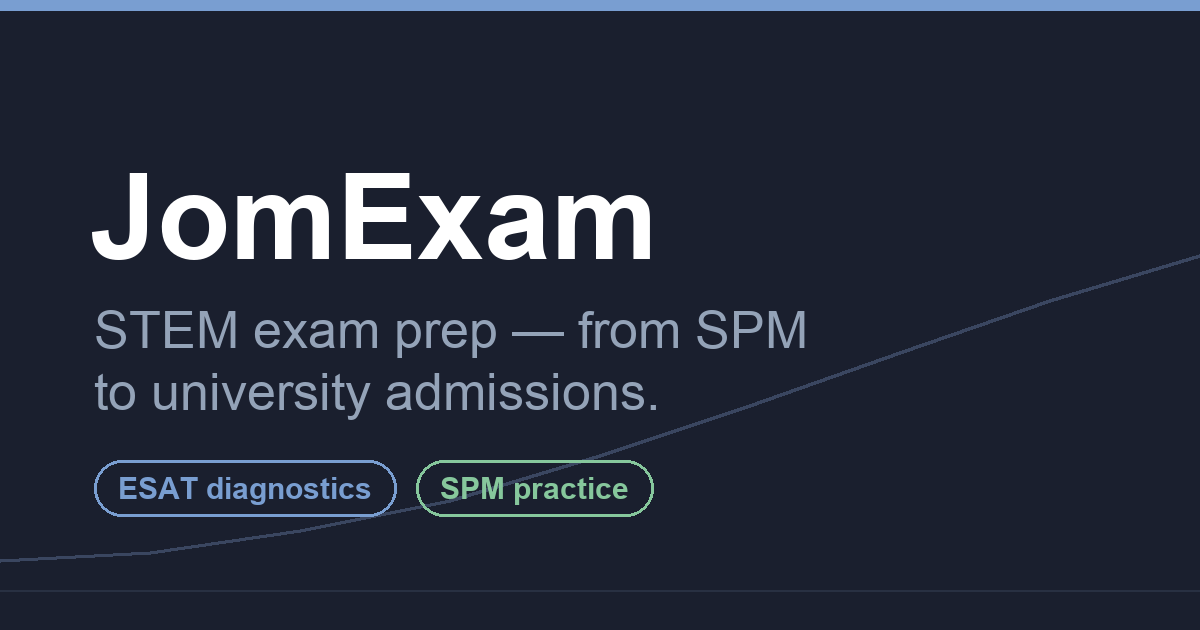
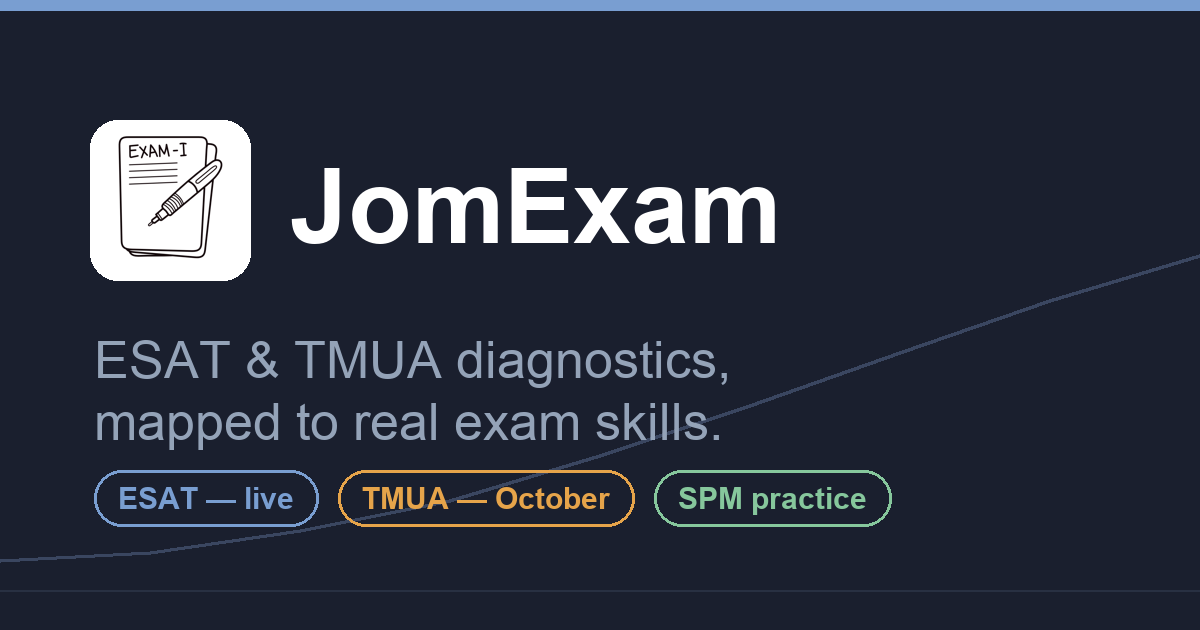
feat: reposition site as ESAT & TMUA specialist (#43)
* feat: reposition site as ESAT & TMUA specialist

Market research: not expanding into A-Level/IB (entrenched competitors);
specialising in UK admissions tests instead. ESAT live, TMUA next,
ESAT Chemistry to follow. SPM unaffected.

- remove all A-Level/IB coming-soon content: revision picker page
  deleted (was SPM + two coming-soon cards; /revision now redirects
  client-side to /subjects and is dropped from the sitemap), landing
  door copy and hero lead rewritten
- TMUA promoted to primary upcoming product: 'Launching October' cards
  on the admissions picker and ESAT/TMUA page, covering Paper 1 & 2 in
  the same timed-diagnostic + skills-report format, with an email
  waitlist form (client-validated, success state; submission stubbed
  behind WAITLIST_API_WIRED flag + TODO until a backend endpoint
  exists — no third-party services)
- ESAT Chemistry added as secondary 'in development' item, no capture
- metadata: index.html + landing/admissions Seo titles and descriptions
  now carry ESAT & TMUA keywords; MAT/STEP/PAT roadmap card removed
- About page: platform mission line reworded to ESAT/TMUA; Hazel's
  tutoring credentials and subjects (A-Level/IB) kept deliberately —
  they describe her tutoring service, not the platform roadmap

* fix: add the logo to the social share card

The generated og-image had the wordmark text but not the actual logo
graphic, so link previews showed no brand mark. Composite logo-1.png
[…]

Changed region(s): [[0.0617, 0.4825, 0.74, 0.8444], [0.0617, 0.181, 0.6475, 0.4524]]

diff --git a/src/pages/AdmissionsPickerPage.tsx b/src/pages/AdmissionsPickerPage.tsx
@@ -2,6 +2,7 @@ import { LandingLayout } from '@/components/layout/landing/LandingLayout.tsx'
 import { Link, useNavigate } from 'react-router-dom'
 import { Button } from '@/components/ui/button.tsx'
 import { Seo } from '@/components/Seo.tsx'
+import { TmuaWaitlistForm } from '@/components/TmuaWaitlistForm.tsx'
 
 /**
  * Step 1 of the admissions track: pick your test. ESAT is live; TMUA and
@@ -16,7 +17,7 @@ export function AdmissionsPickerPage() {
         <LandingLayout>
             <Seo
                 title="Choose Your Test | JomExam Admissions"
-                description="Pick your admissions test — ESAT diagnostics live now for Cambridge and Imperial applicants; TMUA coming soon. Timed papers with a skills report, not just a score."
+                description="Pick your admissions test — ESAT diagnostics live now; TMUA launching for the October sitting with Paper 1 and Paper 2 in the same timed-diagnostic format. Skills report, not just a score."
                 path="/admissions"
             />
             <div className="px-4 md:px-[50px] xl:px-[150px] py-12 md:py-20 max-w-5xl">
@@ -54,48 +55,55 @@ export function AdmissionsPickerPage() {
                         </Button>
                     </div>
 
-                    {/* TMUA — coming soon */}
-                    <div className="border border-slate-200 rounded-xl p-6 bg-white flex flex-col opacity-70">
+                    {/* TMUA — the primary upcoming product */}
+                    <div className="border border-slate-200 rounded-xl p-6 bg-white flex flex-col">
                         <div className="flex items-center gap-3 mb-2">
                             <p className="text-lg font-bold">TMUA</p>
-                            <span className="text-xs font-medium bg-amber-100 text-amber-700 px-2.5 py-0.5 rounded-full border border-amber-200">
-                                Coming soon
+                            <span
+                                className="text-xs font-medium px-2.5 py-0.5 rounded-full border"
+                                style={{
+                                    backgroundColor: '#EEF3FB',
+                                    color: '#4E77B4',
+                                    borderColor: '#CFDDF1',
+                                }}
+                            >
+                                Launching October
                             </span>
                         </div>
-                        <p className="text-slate-500 text-sm leading-relaxed mb-6 flex-1">
+                        <p className="text-slate-500 text-sm leading-relaxed mb-4 flex-1">
                             Test of Mathematics for University Admission —
-                            Cambridge, LSE, Warwick, Durham, Bath.
+                            Cambridge, LSE, Warwick, Durham, Bath. Paper 1
+                            &amp; Paper 2, in the same timed-diagnostic +
+                            skills-report format as our ESAT sets.
                         </p>
-                        <p className="text-xs text-slate-400 font-medium">
-                            In development
-                        </p>
+                        <TmuaWaitlistForm />
                     </div>
 
-                    {/* Roadmap */}
+                    {/* ESAT Chemistry — secondary, in development */}
                     <div className="border border-slate-200 rounded-xl p-6 bg-white flex flex-col opacity-70">
                         <div className="flex items-center gap-3 mb-2">
-                            <p className="text-lg font-bold">More tests</p>
+                            <p className="text-lg font-bold">ESAT Chemistry</p>
                             <span className="text-xs font-medium bg-amber-100 text-amber-700 px-2.5 py-0.5 rounded-full border border-amber-200">
-                                Roadmap
+                                In development
                             </span>
                         </div>
                         <p className="text-slate-500 text-sm leading-relaxed mb-6 flex-1">
-                            MAT, STEP and PAT are on the roadmap as the
-                            diagnostic engine grows.
+                            Chemistry diagnostics to follow the TMUA launch —
+                            same format, mapped to the ESAT specification.
                         </p>
                         <p className="text-xs text-slate-400 font-medium">
-                            Planned
+                            Following TMUA
                         </p>
                     </div>
                 </div>
 
                 <p className="text-sm text-slate-500 mt-10">
-                    Just revising your curriculum?{' '}
+                    Revising for SPM instead?{' '}
                     <Link
-                        to="/revision"
+                        to="/subjects"
                         className="font-semibold text-green-700 underline underline-offset-4"
                     >
-                        Switch to exam revision →
+                        Go to SPM practice →
                     </Link>
                 </p>
             </div>

diff --git a/src/pages/LandingPage.tsx b/src/pages/LandingPage.tsx
@@ -14,8 +14,8 @@ export function LandingPage() {
     return (
         <LandingLayout>
             <Seo
-                title="JomExam — STEM Exam Prep: ESAT Diagnostics & SPM Practice"
-                description="STEM exam prep from SPM to university admissions. Sit timed ESAT diagnostics mapped to real exam skills, get a skills report, and practise SPM Maths by topic."
+                title="JomExam — ESAT & TMUA Diagnostics · SPM Practice"
+                description="Timed ESAT and TMUA diagnostics mapped to real exam skills, with a skills report — plus SPM Mathematics and Add Maths practice by topic. TMUA launches for the October sitting."
                 path="/"
             />
             <div className="px-4 md:px-[50px] xl:px-[150px] py-10 md:py-16 w-full">
@@ -34,14 +34,15 @@ export function LandingPage() {
                 </p>
 
                 <p className="text-sm md:text-lg text-slate-500 mb-8 md:mb-12 max-w-2xl">
-                    From SPM revision to A-Level and IB practice, to the
-                    admissions tests for the world&apos;s top STEM courses.
-                    Pick your goal — everything you see after is scoped to it.
+                    Timed ESAT and TMUA diagnostics mapped to real exam
+                    skills — the admissions tests for the world&apos;s top
+                    STEM courses — plus free SPM practice. Pick your goal —
+                    everything you see after is scoped to it.
                 </p>
 
                 {/* The two doors */}
                 <div className="grid md:grid-cols-2 gap-6 max-w-5xl">
-                    <Link to="/revision">
+                    <Link to="/subjects">
                         <div className="h-full border border-slate-200 rounded-xl bg-white overflow-hidden hover:shadow-xl hover:scale-[1.02] transition-all cursor-pointer group">
                             <div className="h-1 bg-green-600" />
                             <div className="p-6 md:p-8 flex flex-col h-full">
@@ -49,7 +50,7 @@ export function LandingPage() {
                                     Revise my exams
                                 </p>
                                 <p className="text-xs font-medium text-slate-400 uppercase tracking-widest mb-4">
-                                    Curriculum · SPM / A-Level / IB
+                                    Curriculum · SPM
                                 </p>
                                 <p className="text-slate-500 text-sm leading-relaxed mb-4">
                                     Master your syllabus topic by topic, with a
@@ -62,7 +63,7 @@ export function LandingPage() {
                                     </li>
                                     <li className="flex gap-2">
                                         <span className="text-green-600">→</span>
-                                        A-Level &amp; IB Maths — coming soon
+                                        Physics, Chemistry &amp; Biology — on the way
                                     </li>
                                     <li className="flex gap-2">
                                         <span className="text-green-600">→</span>
@@ -137,10 +138,10 @@ export function LandingPage() {
                     </Link>{' '}
                     or{' '}
                     <Link
-                        to="/revision"
+                        to="/subjects"
                         className="font-semibold text-slate-700 underline underline-offset-4 hover:text-slate-900"
                     >
-                        browse revision exams
+                        browse SPM subjects
                     </Link>
                     .
                 </p>

diff --git a/src/pages/EsatTmuaPage.tsx b/src/pages/EsatTmuaPage.tsx
@@ -2,6 +2,7 @@ import { LandingLayout } from '@/components/layout/landing/LandingLayout.tsx'
 import { Button } from '@/components/ui/button.tsx'
 import { useNavigate } from 'react-router-dom'
 import { Seo } from '@/components/Seo.tsx'
+import { TmuaWaitlistForm } from '@/components/TmuaWaitlistForm.tsx'
 
 export function EsatTmuaPage() {
     const navigate = useNavigate()
@@ -32,7 +33,7 @@ export function EsatTmuaPage() {
                     diagnostics are live now — timed papers mapped to specific
                     skills, so you know exactly where to focus.{' '}
                     <span className="font-medium text-slate-600">TMUA</span>{' '}
-                    diagnostics are coming soon.
+                    diagnostics launch for the October sitting.
                 </p>
 
                 <div className="mb-12">
@@ -65,20 +66,28 @@ export function EsatTmuaPage() {
                     <div className="bg-slate-50 border border-slate-100 rounded-xl p-6">
                         <div className="flex items-center gap-2 mb-2">
                             <p className="text-lg font-bold">TMUA</p>
-                            <span className="inline-block bg-amber-50 text-amber-700 text-[11px] font-medium px-2 py-0.5 rounded-full border border-amber-200">
-                                Coming soon
+                            <span className="inline-block bg-emerald-50 text-emerald-700 text-[11px] font-medium px-2 py-0.5 rounded-full border border-emerald-200">
+                                Launching October
                             </span>
                         </div>
                         <p className="text-slate-500 text-sm leading-relaxed mb-3">
                             Test of Mathematics for University Admission. Tests
                             mathematical reasoning in novel contexts — not just
-                            A-Level content recall.
+                            curriculum recall. Paper 1 &amp; Paper 2, in the
+                            same timed-diagnostic + skills-report format as our
+                            ESAT sets.
                         </p>
-                        <p className="text-xs text-slate-400 font-medium">
+                        <p className="text-xs text-slate-400 font-medium mb-4">
                             Cambridge · LSE · Warwick · Durham · Bath
                         </p>
+                        <TmuaWaitlistForm />
                     </div>
                 </div>
+
+                <p className="text-sm text-slate-400 mb-12 -mt-6">
+                    Also in development: ESAT Chemistry — following the TMUA
+                    launch.
+                </p>
 
                 <div className="bg-slate-900 rounded-2xl p-8 mb-12">
                     <p className="text-xl font-bold text-white mb-2">

diff --git a/src/components/TmuaWaitlistForm.tsx b/src/components/TmuaWaitlistForm.tsx
@@ -1,0 +1,64 @@
+import { useState } from 'react'
+import { Input } from '@/components/ui/input.tsx'
+import { Button } from '@/components/ui/button.tsx'
+
+/**
+ * TODO(Clinton): no waitlist endpoint exists in math-be yet. When one is
+ * added (and regenerated into the API client), flip this flag and POST
+ * { email } inside handleSubmit where marked. With the flag off the form
+ * validates and shows the success state locally, so the UI ships now.
+ */
+const WAITLIST_API_WIRED = false
+
+const EMAIL_RE = /^[^\s@]+@[^\s@]+\.[^\s@]+$/
+
+/** Email capture for the TMUA launch — client-side validation, local
+ * success state, no third-party services. */
+export function TmuaWaitlistForm() {
+    const [email, setEmail] = useState('')
+    const [error, setError] = useState<string | null>(null)
+    const [done, setDone] = useState(false)
+
+    function handleSubmit(e: React.FormEvent) {
+        e.preventDefault()
+        if (!EMAIL_RE.test(email.trim())) {
+            setError('Please enter a valid email address.')
+            return
+        }
+        setError(null)
+        if (WAITLIST_API_WIRED) {
+            // TODO(Clinton): POST { email } to the waitlist endpoint here.
+        }
+        setDone(true)
+    }
+
+    if (done) {
+        return (
+            <p className="text-sm font-medium text-emerald-700">
+                You&apos;re on the list — we&apos;ll email you when TMUA opens.
+            </p>
+        )
+    }
+
+    return (
+        <form
+            onSubmit={handleSubmit}
+            className="flex flex-col gap-2"
+            noValidate
+        >
+            <div className="flex gap-2">
+                <Input
+                    type="email"
+                    placeholder="you@email.com"
+                    aria-label="Email address"
+                    value={email}
+                    onChange={(e) => setEmail(e.target.value)}
+                />
+                <Button type="submit" className="cursor-pointer shrink-0">
+                    Join waitlist
+                </Button>
+            </div>
+            {error && <p className="text-xs text-red-600">{error}</p>}
+        </form>
+    )
+}

diff --git a/index.html b/index.html
@@ -4,13 +4,13 @@
     <meta charset="UTF-8"/>
     <link rel="icon" type="image/png" href="/logo-1.png"/>
     <meta name="viewport" content="width=device-width, initial-scale=1.0"/>
-    <title>JomExam — STEM Exam Prep: ESAT Diagnostics &amp; SPM Practice</title>
-    <meta name="description" content="STEM exam prep from SPM to university admissions. Sit timed ESAT diagnostics mapped to real exam skills, get a skills report, and practise SPM Mathematics and Add Maths by topic."/>
+    <title>JomExam — ESAT &amp; TMUA Diagnostics · SPM Practice</title>
+    <meta name="description" content="Timed ESAT and TMUA diagnostics mapped to real exam skills, with a skills report — plus SPM Mathematics and Add Maths practice by topic. TMUA launches for the October sitting."/>
     <meta name="author" content="JomExam"/>
     <link rel="canonical" href="https://www.jomexam.com/"/>
     <meta property="og:site_name" content="JomExam"/>
-    <meta property="og:title" content="JomExam — STEM Exam Prep: ESAT Diagnostics &amp; SPM Practice"/>
-    <meta property="og:description" content="STEM exam prep from SPM to university admissions. Timed ESAT diagnostics with a skills report, plus SPM practice organised by topic."/>
+    <meta property="og:title" content="JomExam — ESAT &amp; TMUA Diagnostics · SPM Practice"/>
+    <meta property="og:description" content="Timed ESAT and TMUA diagnostics with a skills report, plus SPM practice organised by topic. TMUA launches for the October sitting."/>
     <meta property="og:type" content="website"/>
     <meta property="og:url" content="https://www.jomexam.com/"/>
     <meta property="og:image" content="https://www.jomexam.com/og-image.png"/>

diff --git a/src/App.tsx b/src/App.tsx
@@ -15,7 +15,6 @@ import { VerificationPage } from '@/pages/Auth/VerificationPage.tsx'
 import { MoreInfoFormPage } from '@/pages/Auth/MoreInfoFormPage.tsx'
 import { useEffect } from 'react'
 import { LandingPage } from '@/pages/LandingPage.tsx'
-import { RevisionPickerPage } from '@/pages/RevisionPickerPage.tsx'
 import { AdmissionsPickerPage } from '@/pages/AdmissionsPickerPage.tsx'
 import SubjectsPage from '@/pages/SubjectsPage.tsx'
 import { AboutPage } from '@/pages/AboutPage.tsx'
@@ -70,7 +69,13 @@ function App() {
         <>
             <Routes>
                 <Route path="" element={<LandingPage />} />
-                <Route path="revision" element={<RevisionPickerPage />} />
+                {/* The revision track is SPM-only now (we specialise in
+                    ESAT & TMUA rather than A-Level/IB), so the picker is
+                    gone; crawled /revision URLs land on the subjects page. */}
+                <Route
+                    path="revision"
+                    element={<Navigate to="/subjects" replace />}
+                />
                 <Route
                     path="admissions"
                     element={<AdmissionsPickerPage />}

diff --git a/src/components/TmuaWaitlistForm.test.tsx b/src/components/TmuaWaitlistForm.test.tsx
@@ -1,0 +1,26 @@
+import { describe, expect, it } from 'vitest'
+import { render, screen, fireEvent } from '@testing-library/react'
+import { TmuaWaitlistForm } from './TmuaWaitlistForm'
+
+describe('TmuaWaitlistForm', () => {
+    it('rejects an invalid email with an error and no success state', () => {
+        render(<TmuaWaitlistForm />)
+        fireEvent.change(screen.getByLabelText('Email address'), {
+            target: { value: 'not-an-email' },
+        })
+        fireEvent.click(screen.getByText('Join waitlist'))
+        expect(
+            screen.getByText(/valid email address/i)
+        ).toBeInTheDocument()
+        expect(screen.queryByText(/on the list/i)).not.toBeInTheDocument()
+    })
+
+    it('accepts a valid email and shows the success state', () => {
+        render(<TmuaWaitlistForm />)
+        fireEvent.change(screen.getByLabelText('Email address'), {
+            target: { value: 'student@example.com' },
+        })
+        fireEvent.click(screen.getByText('Join waitlist'))
+        expect(screen.getByText(/on the list/i)).toBeInTheDocument()
+    })
+})

diff --git a/src/pages/AboutPage.tsx b/src/pages/AboutPage.tsx
@@ -34,9 +34,10 @@ export function AboutPage() {
                 <div className="bg-slate-50 rounded-2xl p-8 mb-16 border border-slate-100">
                     <p className="text-2xl font-bold mb-3">Our mission</p>
                     <p className="text-slate-600 text-lg leading-relaxed">
-                        Make high-quality exam practice free and accessible —
-                        for every SPM student in Malaysia, and every A-Level or
-                        IB student aiming for a top UK university.
+                        Make high-quality exam practice accessible — for
+                        every SPM student in Malaysia, and every student
+                        aiming for a top UK university through the ESAT or
+                        TMUA.
                     </p>
                 </div>
 
